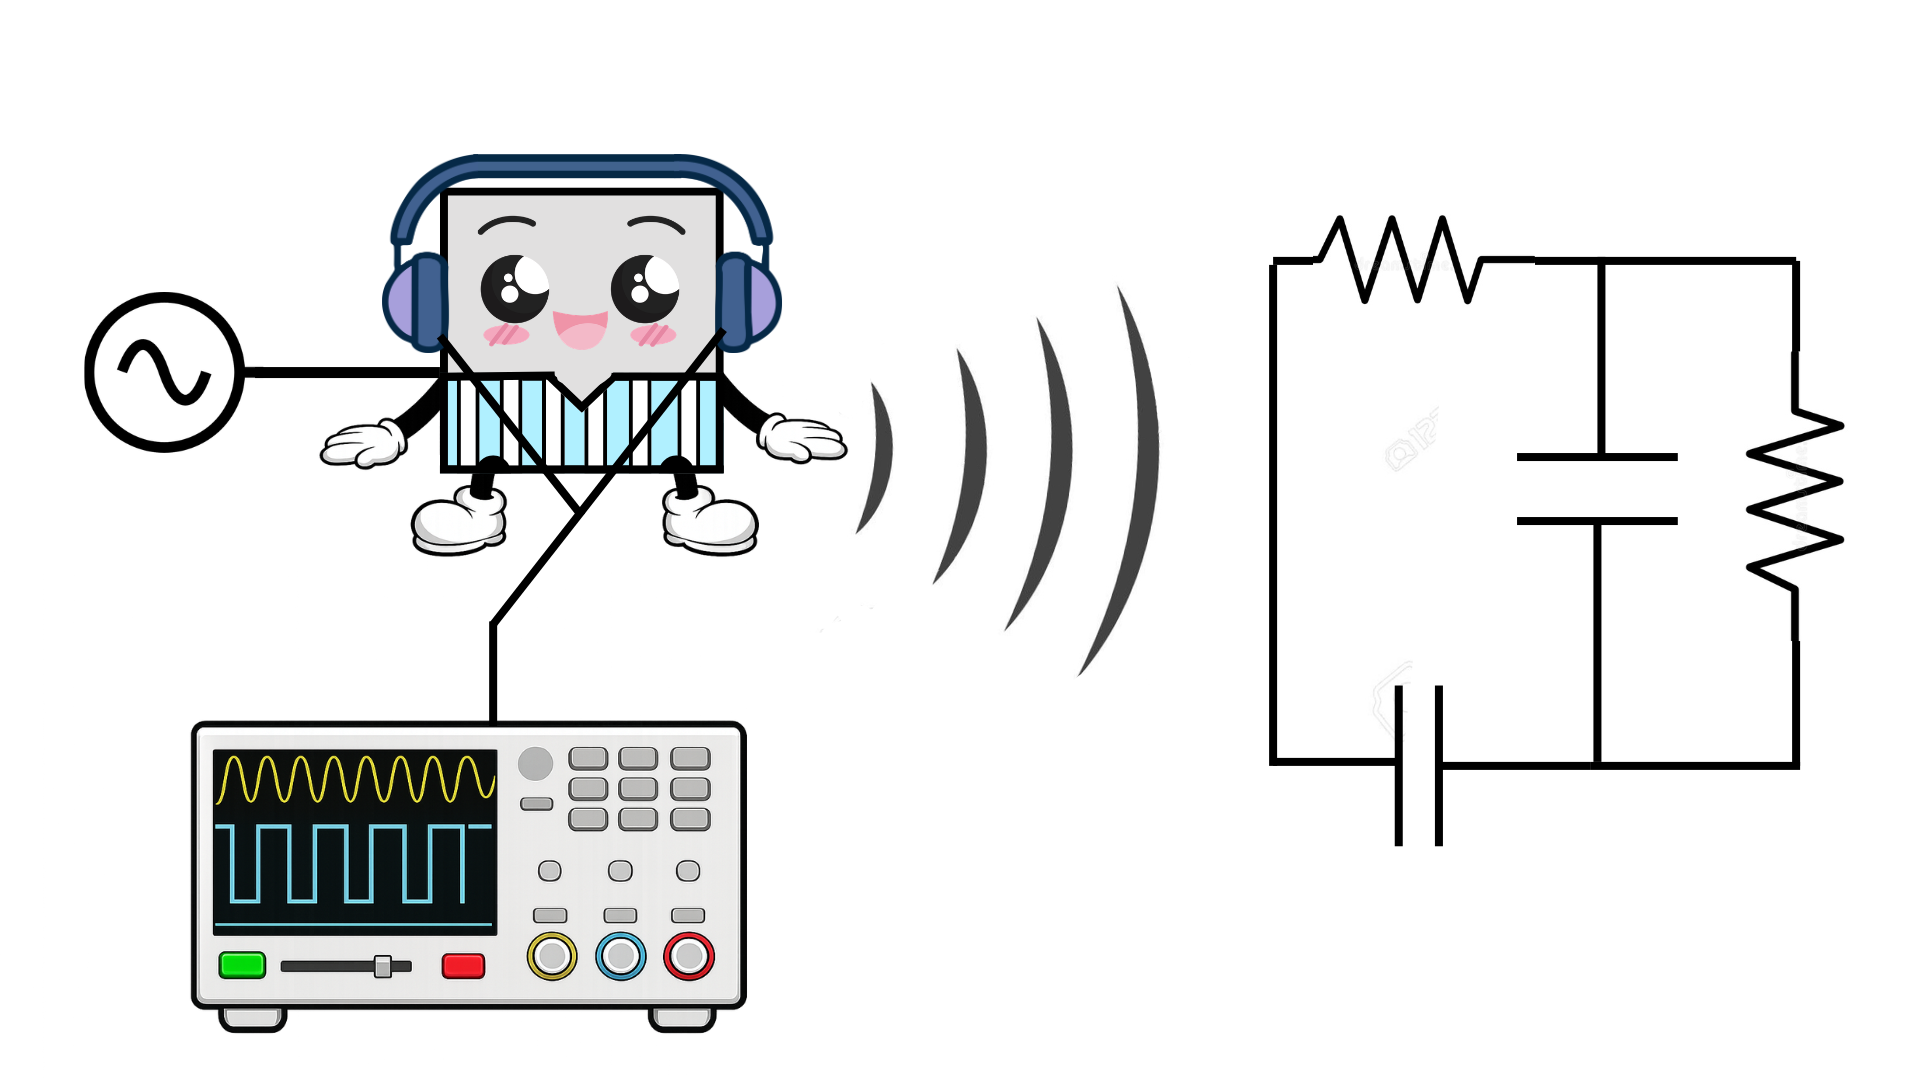
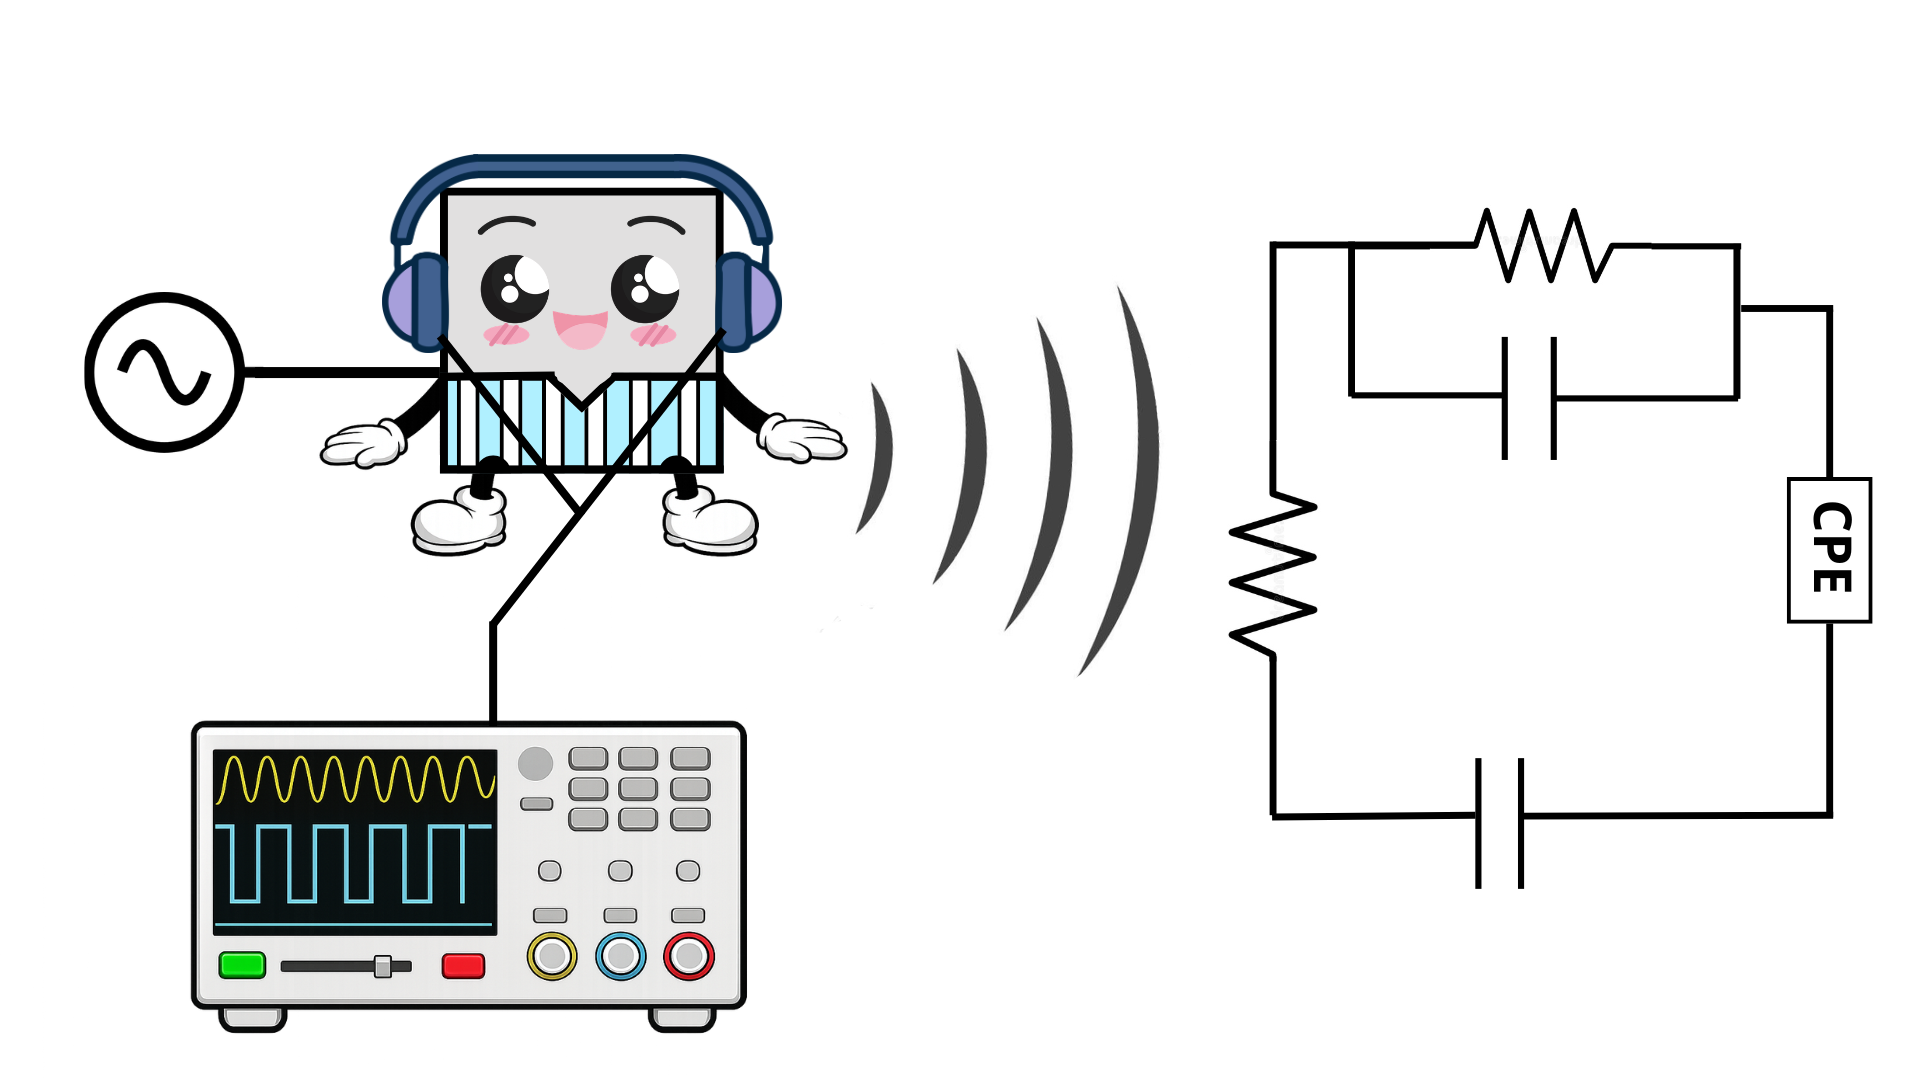
Modificación de métodos y abstract

Changed region(s): [[0.6562, 0.1833, 0.9688, 0.825], [0.625, 0.4583, 0.6875, 0.6111]]

diff --git a/Experimento V, Cajita Feliz/Informe 5/3Métodos.tex b/Experimento V, Cajita Feliz/Informe 5/3Métodos.tex
@@ -4,15 +4,17 @@ Se estudió un circuito RC de distribución desconocida (\autoref{fig:arreglo}) 
 
 \begin{figure} [H]
     \centering
-    \includegraphics[width=0.6\linewidth]{Figuras/esquema.png}
+    \includegraphics[width=0.55\linewidth]{Figuras/esquema.png}
     \caption{Arreglo experimental utilizado para estudiar el circuito RC de distribución desconocida. La señal de entrada $V_{in}$ y la señal de salida $V_{out}$ se midieron simultáneamente utilizando un osciloscopio.}
     \label{fig:arreglo}
     
 \end{figure}
 
-Otra de las experiencias consitió en aplicar una señal de entrada cuadrada, con el objetivo de estudiar la carga de los posibles capacitores que componen el circuito. Para ello se utilizó un generador de ondas $Sinometer$ modelo VC2002 \cite{VC2002} y un osciloscopio $OWON$ modelo VDS3104 \cite{VDS3104}. Se registró la señal de entrada y de salida, para determinadas frecuencias dentro del rango ya barrido en el experimento anterior y se estudió el comportamiento de la señal de salida en función del tiempo. A partir de estos datos se calcularon las constantes de tiempo $\tau$ que caracterizan la carga de los capacitores que componen el circuito. Por cada frecuencia, se registraron tres series que contengan al menos 6 pulsos que fueron ajustados según la ecuación \eqref{ajustepulsoscuadrados}, donde $i$ indica el número de pulso que se muestra en la pantalla. 
+Otra de las experiencias consitió en aplicar una señal de entrada cuadrada, con el objetivo de estudiar la carga de los posibles capacitores que componen el circuito. Para ello se utilizó un generador de ondas $Sinometer$ modelo VC2002 \cite{VC2002} y un osciloscopio $OWON$ modelo VDS3104 \cite{VDS3104}. Se registró la señal de entrada y de salida, para determinadas frecuencias dentro del rango ya barrido en el experimento anterior y se estudió el comportamiento de la señal de salida en función del tiempo. A partir de estos datos se calcularon las constantes de tiempo $\tau$ que caracterizan la carga de los posibles capacitores que componen el circuito. Por cada frecuencia, se registraron tres series que contengan al menos 6 pulsos que fueron ajustados según la ecuación \eqref{ajustepulsoscuadrados}, donde $i$ indica el número de pulso que se muestra en la pantalla, $j$ indica el número de capacitor que se está cargando, $C_i$ y $A_{ij}$ son constantes de ajuste y $t_{0i}$ es el tiempo inicial del pulso $i$. 
 
 \begin{equation}
-    V(t) = C_i + A_i e^{-t/\tau}
+    V(t)=C_i+\sum_{j}^{n}A_{ij}e^{-{\frac{t-t_{0i}}{\tau}}}
     \label{ajustepulsoscuadrados}
 \end{equation}
+
+Para el error de la frecuencia de la señal de entrada, en ambas experiencias, se consideró la variación de la medida en los diferentes rangos dados por el generador; se tomaron las cotas del rango y se extendió como media logaritmica.
